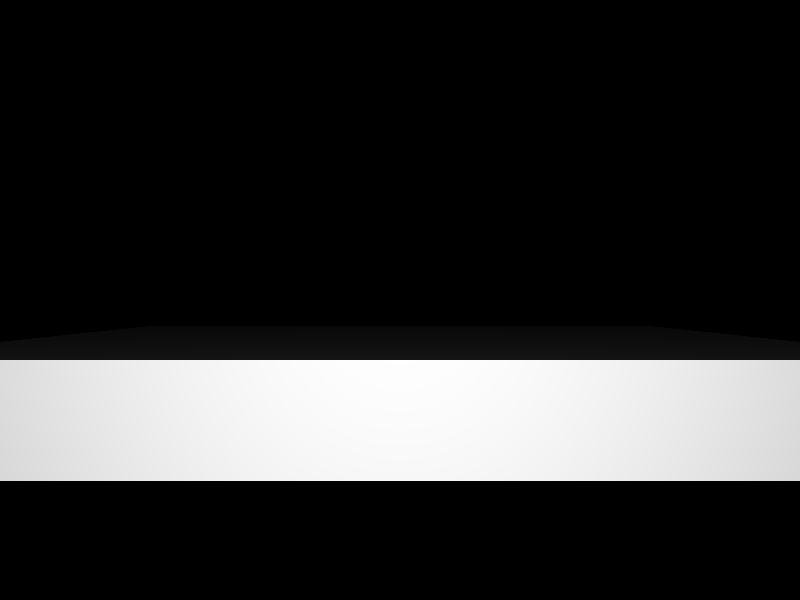
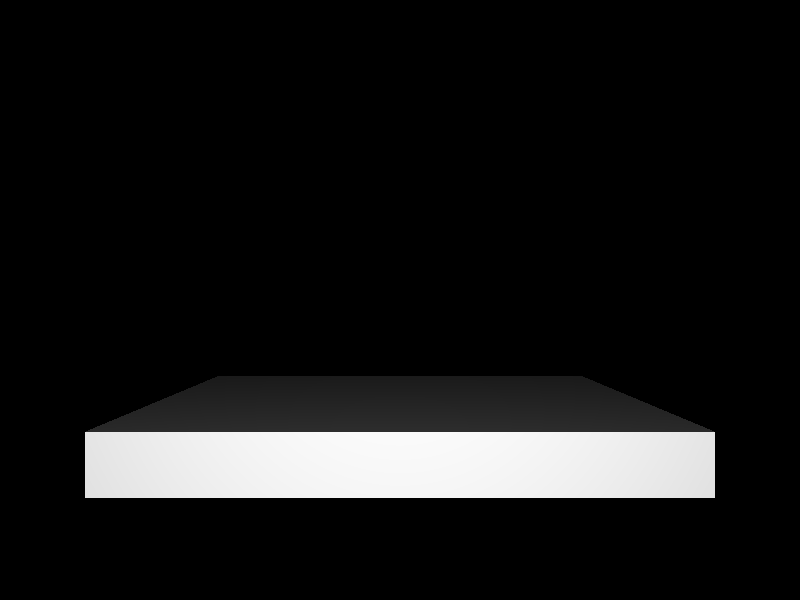
Better view :D

Changed region(s): [[0.0, 0.6, 1.0, 0.84]]

diff --git a/main/a_rendering.cpp b/main/a_rendering.cpp
@@ -24,7 +24,7 @@ void a_rendering()
 	world.scene = scene;
 
 
-	PerspectiveCamera cam1(Point(0.0f, 2.0f, 20.0f), Vector(0.0f, 0.0f, -1.0f), Vector(0.0f, 1.0f, 0.0f), pi / 4, pi / 3);
+	PerspectiveCamera cam1(Point(0.0f, 5.0f, 30.0f), Vector(0.0f, 0.0f, -1.0f), Vector(0.0f, 1.0f, 0.0f), pi / 4, pi / 3);
 
     RayCastingIntegrator integrator(&world);
     Renderer engine1(&cam1, &integrator);
